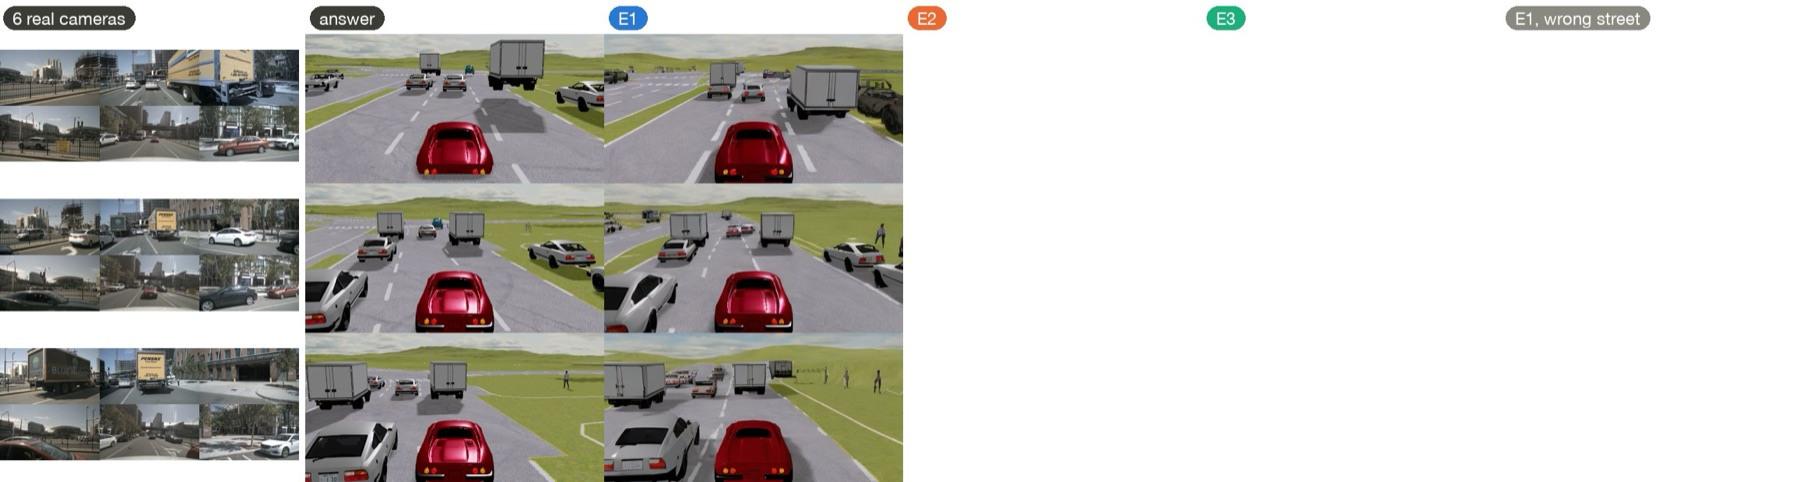
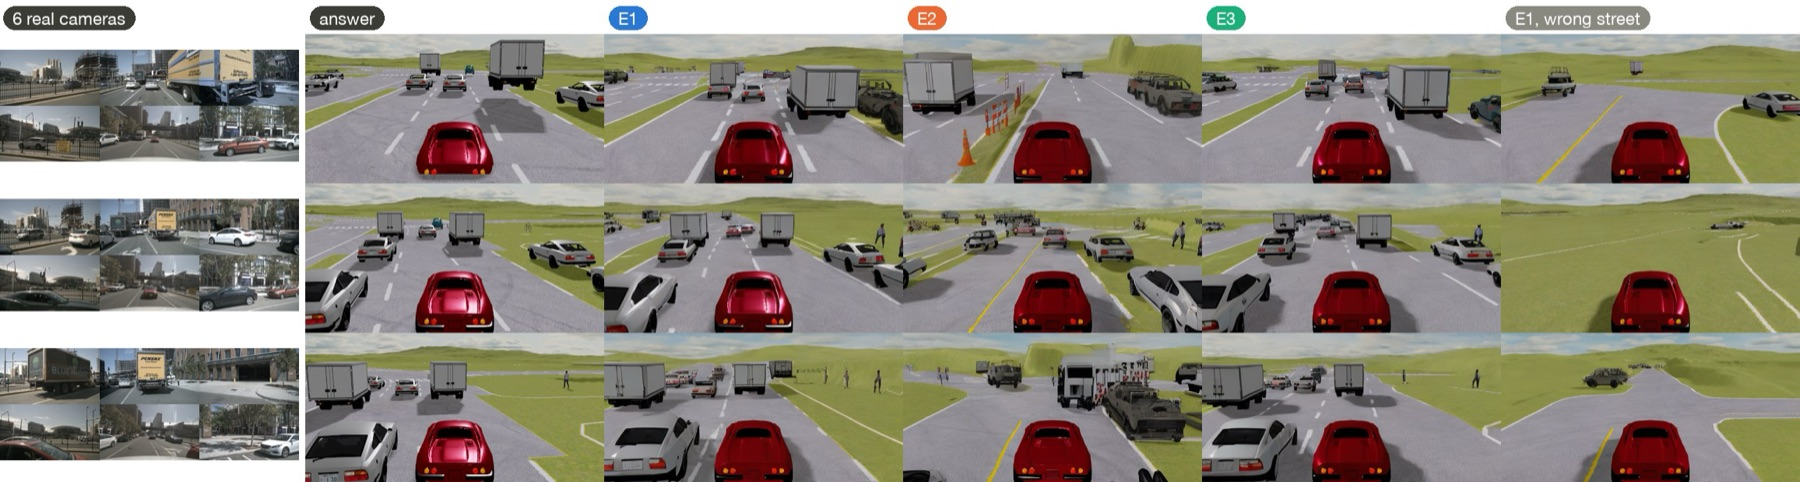
Live page: 10k scores

diff --git a/docs/index.html b/docs/index.html
@@ -127,7 +127,7 @@ footer { margin-top: 56px; font-size: 13px; color: var(--ink-3); border-top: 1px
   adapter. A non-commercial learning project. Page rebuilt from the training logs with <code>scripts/build_site.py</code>.</footer>
 </main>
 <script>
-const D = {"updated":"26 Nov 2026, 11:24","total":10000,"runs":[["E1","our model","all drives"],["E2","plain Stable Diffusion","all drives"],["E3","our model","\u00bc of the drives"]],"drives":[["scene-0915","Busy junction","rain, a left turn at a crossing, 26 vehicles around"],["scene-0563","Moving traffic","queue at a traffic light, 10 of 20 vehicles moving"],["scene-0632","Quiet street","industrial, 2 vehicles"]],"curves":{"E1":[[0,0.2188],[100,0.1151],[200,0.1724],[300,0.1594],[400,0.0455],[500,0.1602],[600,0.0901],[700,0.1257],[800,0.0517],[900,0.0793],[1000,0.1163],[1100,0.0879],[1200,0.1147],[1300,0.1161],[1400,0.1658],[1500,0.0938],[1600,0.0707],[1700,0.0973],[1800,0.1465],[1900,0.0433],[2000,0.0684],[2100,0.0759],[2200,0.0862],[2300,0.0804],[2400,0.1445],[2500,0.0855],[2600,0.0583],[2700,0.0634],[2800,0.0595],[2900,0.1143],[3000,0.0978],[3100,0.1076],[3200,0.0994],[3300,0.0873],[3400,0.0879],[3500,0.1003],[3600,0.0953],[3700,0.076],[3800,0.1023],[3900,0.0631],[4000,0.0703],[4100,0.0984],[4200,0.0769],[4300,0.1031],[4400,0.0741],[4500,0.1383],[4600,0.1226],[4700,0.0592],[4800,0.1076],[4900,0.0745],[5000,0.0482],[5100,0.0602],[5200,0.0625],[5300,0.0581],[5400,0.1018],[5500,0.0871],[5600,0.1072],[5700,0.1033],[5800,0.0581],[5900,0.085],[6000,0.0592],[6100,0.1016],[6200,0.0742],[6300,0.0424],[6400,0.1021],[6500,0.1227],[6600,0.1084],[6700,0.0709],[6800,0.0781],[6900,0.117],[7000,0.0688],[7100,0.0653],[7200,0.1129],[7300,0.0401],[7400,0.1048]],"E2":[[0,0.2073],[100,0.1112],[200,0.1691],[300,0.158],[400,0.0466],[500,0.1604],[600,0.0923],[700,0.1273],[800,0.0522],[900,0.0813],[1000,0.118],[1100,0.0904],[1200,0.1179],[1300,0.1196],[1400,0.1697],[1500,0.0961],[1600,0.0728],[1700,0.1001],[1800,0.1494],[1900,0.0449],[2000,0.0701],[2100,0.0783],[2200,0.0887],[2300,0.0834],[2400,0.1474],[2500,0.088],[2600,0.0599],[2700,0.0652],[2800,0.0618],[2900,0.1175],[3000,0.101],[3100,0.112],[3200,0.1025],[3300,0.0896],[3400,0.0902],[3500,0.1035],[3600,0.0976],[3700,0.0799],[3800,0.1056],[3900,0.066],[4000,0.0717],[4100,0.1013],[4200,0.0795],[4300,0.1057],[4400,0.0769],[4500,0.1408],[4600,0.1248],[4700,0.0605],[4800,0.1111],[4900,0.0775],[5000,0.0503],[5100,0.0627],[5200,0.0643],[5300,0.0608],[5400,0.106],[5500,0.0895],[5600,0.1091],[5700,0.1056],[5800,0.0601],[5900,0.0882],[6000,0.0631],[6100,0.104],[6200,0.0772]],"E3":[[0,0.2218],[100,0.1117],[200,0.1704],[300,0.1666],[400,0.0484],[500,0.1586],[600,0.093],[700,0.1228],[800,0.0522],[900,0.0788],[1000,0.1152],[1100,0.088],[1200,0.1123],[1300,0.1153],[1400,0.1701],[1500,0.1015],[1600,0.0743],[1700,0.0995],[1800,0.1422],[1900,0.0384],[2000,0.0681],[2100,0.0749],[2200,0.0815],[2300,0.084],[2400,0.1487],[2500,0.0846],[2600,0.0635],[2700,0.0597],[2800,0.0573],[2900,0.1169],[3000,0.0915],[3100,0.104],[3200,0.092],[3300,0.0847],[3400,0.0823],[3500,0.104],[3600,0.0954],[3700,0.0722],[3800,0.1019],[3900,0.0587],[4000,0.0678],[4100,0.0948],[4200,0.0758],[4300,0.0996],[4400,0.0787],[4500,0.1357],[4600,0.1172],[4700,0.0599],[4800,0.1077],[4900,0.0703],[5000,0.0417],[5100,0.0591],[5200,0.0642],[5300,0.059],[5400,0.0973],[5500,0.0823],[5600,0.1015],[5700,0.1001],[5800,0.0523],[5900,0.0748],[6000,0.0574],[6100,0.0918],[6200,0.0666],[6300,0.0376],[6400,0.0984],[6500,0.1097],[6600,0.1036],[6700,0.0641],[6800,0.0696],[6900,0.1242],[7000,0.0684],[7100,0.066],[7200,0.1101],[7300,0.0365]]},"scores":{"tpvE3_5000_m2f":{"f1":0.2937625754527163,"road_iou":0.8358878910466356,"lpips":0.32584450524300335,"frames":240},"tpvE2_5000_m2f":{"f1":0.0436241610738255,"road_iou":0.7389474438681735,"lpips":0.5248136691749096,"frames":240},"tpvE3_5000_train_m2f":{"f1":0.35894039735099337,"road_iou":0.8665545703996036,"lpips":0.24669408248737454,"frames":240}},"hero":{"cam":"site/img/hero_cam.jpg","key":"site/img/hero_key.jpg","e1":"site/img/hero_e1.jpg","step":5000},"pics":{"2500":{"scene-0563":"site/img/step2500_scene-0563.jpg","scene-0632":"site/img/step2500_scene-0632.jpg","scene-0915":"site/img/step2500_scene-0915.jpg"},"5000":{"scene-0563":"site/img/step5000_scene-0563.jpg","scene-0632":"site/img/step5000_scene-0632.jpg","scene-0915":"site/img/step5000_scene-0915.jpg"}},"news":[{"when":"26 Nov, 11:25","text":"First scores at 5,000 steps on 30 unseen drives. Starting from plain Stable Diffusion (E2) places almost no cars correctly (car score 0.04), so we stopped it. A quarter of the data (E3) already scores 0.29, a bit lower than on its own training drives (0.36). E1 is still being scored."},{"when":"26 Nov, 11:10","text":"Next experiment planned: steadier video. Two AI reviewers agreed a plan after five rounds: feed the model its previous frame, compared against free tricks, judged on edge-car flicker without losing placement."},{"when":"26 Nov, 09:55","text":"First pictures at 2,500 steps. Starting from our trained model (E1), the drawings already match the game view closely: road shape, crossings, rows of parked cars, trucks ahead. Plain Stable Diffusion (E2) invents cones and misplaces cars. Fed another street's cameras, E1 draws a different street, so it reads the cameras."},{"when":"26 Nov, 08:42","text":"Three experiments started: our trained model vs plain Stable Diffusion as the starting point, and all drives vs a quarter of them."},{"when":"26 Nov, 08:30","text":"12,111 game pictures rendered from the chase camera (9,587 for training, 2,524 from drives the model never sees). Two cluster machines froze the simulator on every drive; we stopped using them."},{"when":"26 Nov, 07:00","text":"New direction. Our answer keys were always messy, and the model copied the mess. Now the answer is a game render of the exact same moment, seen from behind our car."},{"when":"26 Nov, 04:15","text":"The Stable Diffusion renderer finished 40,000 steps on the old, messy keys: photo-like streets, but car placement stopped improving after 20,000 steps."}]};
+const D = {"updated":"26 Nov 2026, 13:17","total":10000,"runs":[["E1","our model","all drives"],["E2","plain Stable Diffusion","all drives"],["E3","our model","\u00bc of the drives"]],"drives":[["scene-0915","Busy junction","rain, a left turn at a crossing, 26 vehicles around"],["scene-0563","Moving traffic","queue at a traffic light, 10 of 20 vehicles moving"],["scene-0632","Quiet street","industrial, 2 vehicles"]],"curves":{"E1":[[0,0.2188],[100,0.1151],[200,0.1724],[300,0.1594],[400,0.0455],[500,0.1602],[600,0.0901],[700,0.1257],[800,0.0517],[900,0.0793],[1000,0.1163],[1100,0.0879],[1200,0.1147],[1300,0.1161],[1400,0.1658],[1500,0.0938],[1600,0.0707],[1700,0.0973],[1800,0.1465],[1900,0.0433],[2000,0.0684],[2100,0.0759],[2200,0.0862],[2300,0.0804],[2400,0.1445],[2500,0.0855],[2600,0.0583],[2700,0.0634],[2800,0.0595],[2900,0.1143],[3000,0.0978],[3100,0.1076],[3200,0.0994],[3300,0.0873],[3400,0.0879],[3500,0.1003],[3600,0.0953],[3700,0.076],[3800,0.1023],[3900,0.0631],[4000,0.0703],[4100,0.0984],[4200,0.0769],[4300,0.1031],[4400,0.0741],[4500,0.1383],[4600,0.1226],[4700,0.0592],[4800,0.1076],[4900,0.0745],[5000,0.0482],[5100,0.0602],[5200,0.0625],[5300,0.0581],[5400,0.1018],[5500,0.0871],[5600,0.1072],[5700,0.1033],[5800,0.0581],[5900,0.085],[6000,0.0592],[6100,0.1016],[6200,0.0742],[6300,0.0424],[6400,0.1021],[6500,0.1227],[6600,0.1084],[6700,0.0709],[6800,0.0781],[6900,0.117],[7000,0.0688],[7100,0.0653],[7200,0.1129],[7300,0.0401],[7400,0.1048],[7500,0.0562],[7600,0.0972],[7700,0.0648],[7800,0.0622],[7900,0.0598],[8000,0.114],[8100,0.0542],[8200,0.1299],[8300,0.1114],[8400,0.1046],[8500,0.1218],[8600,0.1365],[8700,0.0645],[8800,0.0312],[8900,0.0432],[9000,0.0722],[9100,0.1368],[9200,0.0413],[9300,0.107],[9400,0.0932],[9500,0.0781],[9600,0.0496],[9700,0.072],[9800,0.0725],[9900,0.0566]],"E2":[[0,0.2073],[100,0.1112],[200,0.1691],[300,0.158],[400,0.0466],[500,0.1604],[600,0.0923],[700,0.1273],[800,0.0522],[900,0.0813],[1000,0.118],[1100,0.0904],[1200,0.1179],[1300,0.1196],[1400,0.1697],[1500,0.0961],[1600,0.0728],[1700,0.1001],[1800,0.1494],[1900,0.0449],[2000,0.0701],[2100,0.0783],[2200,0.0887],[2300,0.0834],[2400,0.1474],[2500,0.088],[2600,0.0599],[2700,0.0652],[2800,0.0618],[2900,0.1175],[3000,0.101],[3100,0.112],[3200,0.1025],[3300,0.0896],[3400,0.0902],[3500,0.1035],[3600,0.0976],[3700,0.0799],[3800,0.1056],[3900,0.066],[4000,0.0717],[4100,0.1013],[4200,0.0795],[4300,0.1057],[4400,0.0769],[4500,0.1408],[4600,0.1248],[4700,0.0605],[4800,0.1111],[4900,0.0775],[5000,0.0503],[5100,0.0627],[5200,0.0643],[5300,0.0608],[5400,0.106],[5500,0.0895],[5600,0.1091],[5700,0.1056],[5800,0.0601],[5900,0.0882],[6000,0.0631],[6100,0.104],[6200,0.0772]],"E3":[[0,0.2218],[100,0.1117],[200,0.1704],[300,0.1666],[400,0.0484],[500,0.1586],[600,0.093],[700,0.1228],[800,0.0522],[900,0.0788],[1000,0.1152],[1100,0.088],[1200,0.1123],[1300,0.1153],[1400,0.1701],[1500,0.1015],[1600,0.0743],[1700,0.0995],[1800,0.1422],[1900,0.0384],[2000,0.0681],[2100,0.0749],[2200,0.0815],[2300,0.084],[2400,0.1487],[2500,0.0846],[2600,0.0635],[2700,0.0597],[2800,0.0573],[2900,0.1169],[3000,0.0915],[3100,0.104],[3200,0.092],[3300,0.0847],[3400,0.0823],[3500,0.104],[3600,0.0954],[3700,0.0722],[3800,0.1019],[3900,0.0587],[4000,0.0678],[4100,0.0948],[4200,0.0758],[4300,0.0996],[4400,0.0787],[4500,0.1357],[4600,0.1172],[4700,0.0599],[4800,0.1077],[4900,0.0703],[5000,0.0417],[5100,0.0591],[5200,0.0642],[5300,0.059],[5400,0.0973],[5500,0.0823],[5600,0.1015],[5700,0.1001],[5800,0.0523],[5900,0.0748],[6000,0.0574],[6100,0.0918],[6200,0.0666],[6300,0.0376],[6400,0.0984],[6500,0.1097],[6600,0.1036],[6700,0.0641],[6800,0.0696],[6900,0.1242],[7000,0.0684],[7100,0.066],[7200,0.1101],[7300,0.0365],[7400,0.0985],[7500,0.0517],[7600,0.0911],[7700,0.0622],[7800,0.0644],[7900,0.0588],[8000,0.1094],[8100,0.0416],[8200,0.1263],[8300,0.096],[8400,0.0991],[8500,0.1124],[8600,0.131],[8700,0.058],[8800,0.0303],[8900,0.0432],[9000,0.068],[9100,0.1415],[9200,0.0462],[9300,0.1025],[9400,0.0848],[9500,0.0684],[9600,0.046],[9700,0.0756],[9800,0.0669],[9900,0.0499]]},"scores":{"tpvE1_10000_m2f":{"f1":0.288021534320323,"road_iou":0.8460616844842858,"lpips":0.31154592223465444,"frames":240},"tpvE3_10000_m2f":{"f1":0.3176550783912747,"road_iou":0.8476885814114044,"lpips":0.3161175657063723,"frames":240},"tpvE3_5000_m2f":{"f1":0.2937625754527163,"road_iou":0.8358878910466356,"lpips":0.32584450524300335,"frames":240},"tpvE1_5000_swap_m2f":{"f1":0.019008825526137134,"road_iou":0.746508034543282,"lpips":0.5646591998636723,"frames":240},"tpvE2_5000_m2f":{"f1":0.0436241610738255,"road_iou":0.7389474438681735,"lpips":0.5248136691749096,"frames":240},"tpvE1_5000_m2f":{"f1":0.27553118574366003,"road_iou":0.8453455092905273,"lpips":0.33533539716154337,"frames":240},"tpvE3_5000_train_m2f":{"f1":0.35894039735099337,"road_iou":0.8665545703996036,"lpips":0.24669408248737454,"frames":240},"tpv_ceiling_m2f":{"f1":0.7633378932968536,"road_iou":0.9401329689908575,"lpips":0.04011348341591656,"frames":240}},"hero":{"cam":"site/img/hero_cam.jpg","key":"site/img/hero_key.jpg","e1":"site/img/hero_e1.jpg","step":5000},"pics":{"2500":{"scene-0563":"site/img/step2500_scene-0563.jpg","scene-0632":"site/img/step2500_scene-0632.jpg","scene-0915":"site/img/step2500_scene-0915.jpg"},"5000":{"scene-0563":"site/img/step5000_scene-0563.jpg","scene-0632":"site/img/step5000_scene-0632.jpg","scene-0915":"site/img/step5000_scene-0915.jpg"}},"news":[{"when":"26 Nov, 13:40","text":"10,000-step scores: a quarter of the data (E3, car score 0.32) does as well as all of it (E1, 0.29), so more data would not help yet. The perfect game picture through the same image compression scores 0.76, so we are at about 42% of what the judge can measure."},{"when":"26 Nov, 11:25","text":"First scores at 5,000 steps on 30 unseen drives. Starting from plain Stable Diffusion (E2) places almost no cars correctly (car score 0.04), so we stopped it. A quarter of the data (E3) already scores 0.29, a bit lower than on its own training drives (0.36). E1 is still being scored."},{"when":"26 Nov, 11:10","text":"Next experiment planned: steadier video. Two AI reviewers agreed a plan after five rounds: feed the model its previous frame, compared against free tricks, judged on edge-car flicker without losing placement."},{"when":"26 Nov, 09:55","text":"First pictures at 2,500 steps. Starting from our trained model (E1), the drawings already match the game view closely: road shape, crossings, rows of parked cars, trucks ahead. Plain Stable Diffusion (E2) invents cones and misplaces cars. Fed another street's cameras, E1 draws a different street, so it reads the cameras."},{"when":"26 Nov, 08:42","text":"Three experiments started: our trained model vs plain Stable Diffusion as the starting point, and all drives vs a quarter of them."},{"when":"26 Nov, 08:30","text":"12,111 game pictures rendered from the chase camera (9,587 for training, 2,524 from drives the model never sees). Two cluster machines froze the simulator on every drive; we stopped using them."},{"when":"26 Nov, 07:00","text":"New direction. Our answer keys were always messy, and the model copied the mess. Now the answer is a game render of the exact same moment, seen from behind our car."},{"when":"26 Nov, 04:15","text":"The Stable Diffusion renderer finished 40,000 steps on the old, messy keys: photo-like streets, but car placement stopped improving after 20,000 steps."}]};
 const COL = { E1: "var(--s1)", E2: "var(--s2)", E3: "var(--s3)" };
 const $ = id => document.getElementById(id);
 const fmt = n => n.toLocaleString("en-GB");
